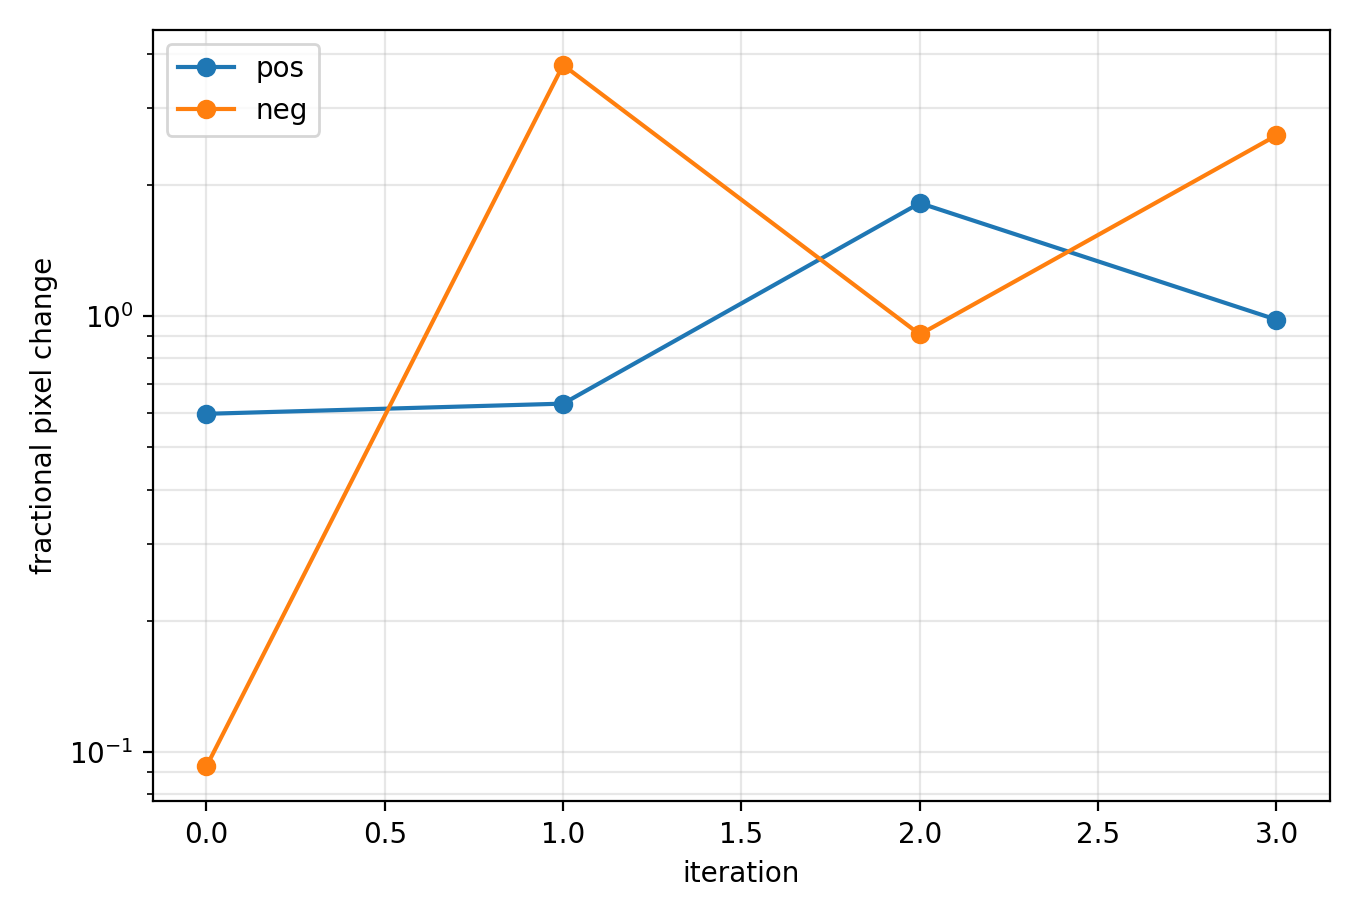
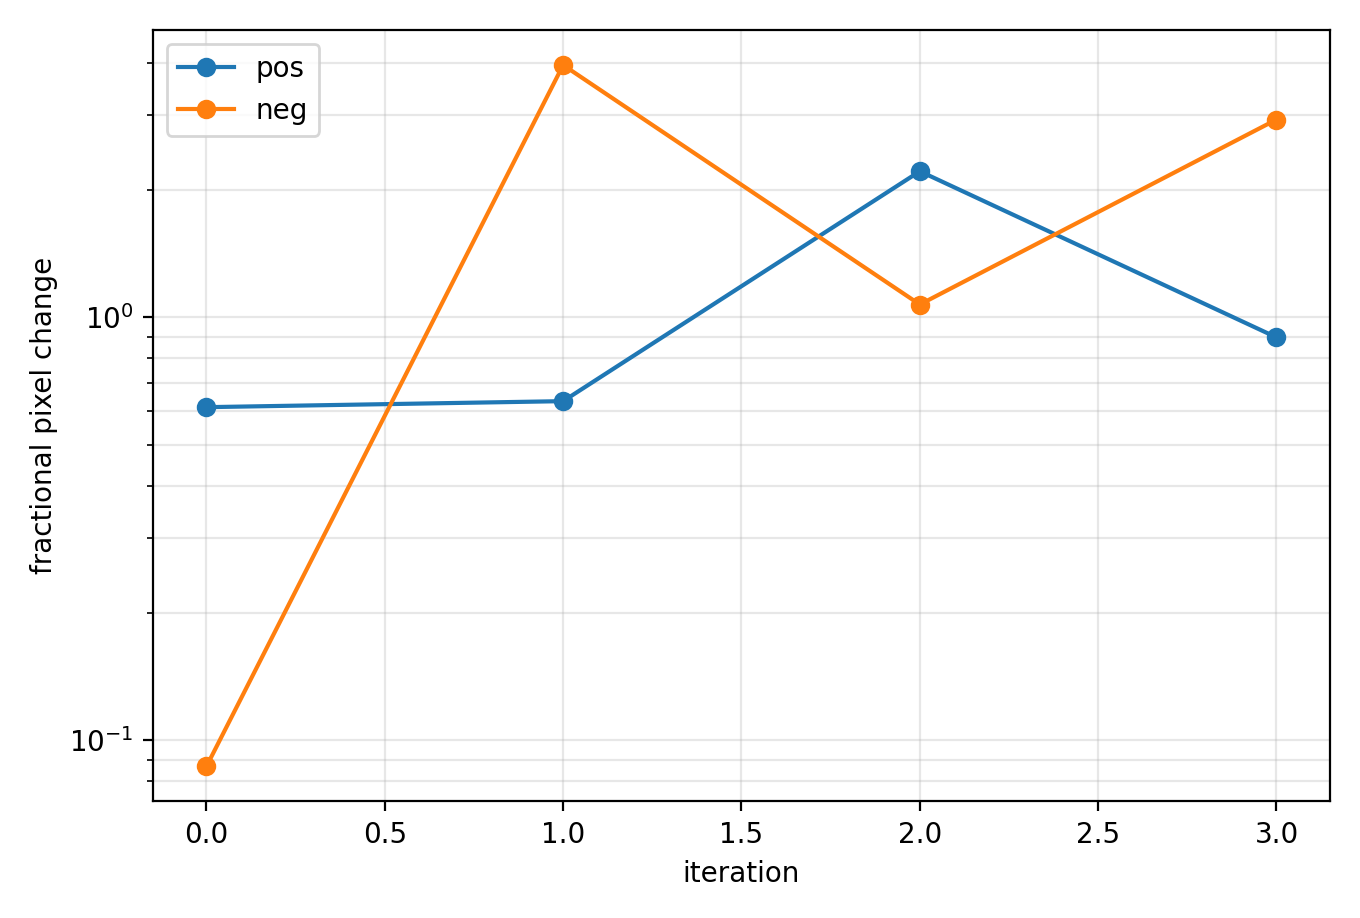
adding proper binning

diff --git a/Totani_paper_check/sanity_checks/sanity_checks.py b/Totani_paper_check/sanity_checks/sanity_checks.py
@@ -1,0 +1,176 @@
+#!/usr/bin/env python3
+"""
+Sanity checks for Totani-style Fermi LAT cube products.
+
+This script answers: "Is the dataset sane?"
+"""
+
+import numpy as np
+import matplotlib.pyplot as plt
+from astropy.io import fits
+import os
+
+# -------------------------
+# Paths
+# -------------------------
+REPO_DIR = os.environ["REPO_PATH"]
+DATA_DIR = os.path.join(REPO_DIR, "fermi_data", "totani", "processed")
+
+COUNTS_CCUBE = os.path.join(DATA_DIR, "counts_ccube_1000to1000000.fits")
+EXPCUBE      = os.path.join(DATA_DIR, "expcube_1000to1000000.fits")
+COUNTS_CMAP  = os.path.join(DATA_DIR, "counts_cmap_1000to1000000.fits")
+
+OUTDIR = "sanity_plots"
+os.makedirs(OUTDIR, exist_ok=True)
+
+
+def load_image_hdu(path, prefer_extname=None):
+    """
+    Load an image HDU from a FITS file robustly.
+    If prefer_extname is given and exists, use it; otherwise pick the first image HDU with data.
+    Returns (data, header, hdu_index, hdu_name).
+    """
+    with fits.open(path) as hdul:
+        # optional preferred extname
+        if prefer_extname is not None and prefer_extname in hdul:
+            h = hdul[prefer_extname]
+            if h.data is None:
+                raise RuntimeError(f"{path}: preferred HDU '{prefer_extname}' has no data")
+            return np.asarray(h.data), h.header, hdul.index_of(prefer_extname), prefer_extname
+
+        # otherwise pick first ImageHDU/PrimaryHDU that has 2D/3D data
+        for i, h in enumerate(hdul):
+            if h.data is None:
+                continue
+            if getattr(h, "is_image", False) or isinstance(h, (fits.PrimaryHDU, fits.ImageHDU)):
+                arr = np.asarray(h.data)
+                if arr.ndim in (2, 3):
+                    name = h.name if hasattr(h, "name") else f"HDU{i}"
+                    return arr, h.header, i, name
+
+        raise RuntimeError(f"{path}: no 2D/3D image HDU found")
+
+
+# -------------------------
+# Load counts (should be (E, Y, X))
+# -------------------------
+counts = fits.getdata(COUNTS_CCUBE).astype(float)
+hdr_counts = fits.getheader(COUNTS_CCUBE)
+
+if counts.ndim != 3:
+    raise RuntimeError(f"Counts cube should be 3D (nE,ny,nx), got shape {counts.shape}")
+
+nE, ny, nx = counts.shape
+
+# -------------------------
+# Load exposure robustly
+# -------------------------
+# Print exposure HDU inventory (super useful)
+print("\n=== EXPCUBE HDU LIST ===")
+with fits.open(EXPCUBE) as hdul:
+    hdul.info()
+
+expo, hdr_expo, expo_hdu_idx, expo_hdu_name = load_image_hdu(EXPCUBE)
+expo = expo.astype(float)
+
+print("\n=== COUNTS CCUBE ===")
+print("Shape:", counts.shape)
+print("Total counts:", int(np.nansum(counts)))
+print("Min / Max:", np.nanmin(counts), np.nanmax(counts))
+if np.nansum(counts) == 0:
+    raise RuntimeError("❌ Counts cube is EMPTY")
+
+print("\nCounts per energy bin:")
+for i in range(nE):
+    print(f"  bin {i:02d}: {int(np.nansum(counts[i]))}")
+
+print("\n=== EXPOSURE CUBE ===")
+print(f"Loaded exposure from HDU {expo_hdu_idx} ('{expo_hdu_name}')")
+print("Shape:", expo.shape)
+print("Finite fraction:", np.isfinite(expo).mean())
+print("Min / Max:", np.nanmin(expo), np.nanmax(expo))
+
+# -------------------------
+# Energy bin sanity
+# -------------------------
+with fits.open(COUNTS_CCUBE) as hdul:
+    if "EBOUNDS" not in hdul:
+        raise RuntimeError("Counts cube missing EBOUNDS extension")
+    eb = hdul["EBOUNDS"].data
+    emin = eb["E_MIN"].astype(float)  # MeV
+    emax = eb["E_MAX"].astype(float)  # MeV
+    ectr = np.sqrt(emin * emax) / 1000.0  # GeV
+
+print("\n=== ENERGY BINS ===")
+print("N bins:", len(ectr))
+print("GeV bin centers:", np.round(ectr, 3))
+
+# -------------------------
+# CMAP quick-look (integrated counts)
+# -------------------------
+if os.path.exists(COUNTS_CMAP):
+    cmap = fits.getdata(COUNTS_CMAP).astype(float)
+
+    plt.figure(figsize=(6, 5))
+    plt.imshow(np.log10(np.maximum(cmap, 1)), origin="lower", cmap="inferno")
+    plt.colorbar(label=r"$\log_{10}(\mathrm{counts})$")
+    plt.title("Integrated counts (CMAP)")
+    plt.xlabel("pixel x")
+    plt.ylabel("pixel y")
+    plt.tight_layout()
+    out = os.path.join(OUTDIR, "counts_cmap_log.png")
+    plt.savefig(out, dpi=150)
+    plt.close()
+    print("\n✓ Wrote:", out)
+
+# -------------------------
+# Per-bin sky structure check
+# -------------------------
+idxs = [0, nE // 2, nE - 1]
+
+# Determine how to index exposure
+expo_is_3d = (expo.ndim == 3)
+if expo.ndim == 3 and expo.shape[0] != nE:
+    print(f"\n⚠ Exposure has {expo.shape[0]} energy planes but counts has {nE}.")
+    print("   This script will still plot, but you should resample exposure energies for real analysis.")
+
+for k in idxs:
+    c = counts[k]
+
+    if expo_is_3d:
+        kk = min(k, expo.shape[0] - 1)
+        a = expo[kk]
+    else:
+        a = expo  # 2D exposure map
+
+    fig, axes = plt.subplots(1, 2, figsize=(10, 4))
+
+    axes[0].imshow(np.log10(np.maximum(c, 1)), origin="lower", cmap="inferno")
+    axes[0].set_title(f"Counts (E~{ectr[k]:.2g} GeV)")
+
+    axes[1].imshow(np.log10(np.maximum(a, 1e-30)), origin="lower", cmap="viridis")
+    axes[1].set_title("Exposure" + (" (2D)" if expo.ndim == 2 else f" (bin {min(k, expo.shape[0]-1)})"))
+
+    for ax in axes:
+        ax.set_xticks([])
+        ax.set_yticks([])
+
+    plt.tight_layout()
+    out = os.path.join(OUTDIR, f"bin_{k:02d}_counts_exposure.png")
+    plt.savefig(out, dpi=150)
+    plt.close()
+
+    print("✓ Wrote:", out)
+
+# -------------------------
+# Global consistency ratios
+# -------------------------
+print("\n=== GLOBAL CONSISTENCY ===")
+counts_nonzero_frac = (counts > 0).mean()
+expo_nonzero_frac = (expo > 0).mean()
+
+print("Counts nonzero fraction:", counts_nonzero_frac)
+print("Exposure nonzero fraction:", expo_nonzero_frac)
+
+print("\nAll sanity checks finished.")
+print("Next step: flux maps + |b|<10° mask + Fig.1 panels.")

diff --git a/Totani_paper_check/data_download/make_bin_edges.py b/Totani_paper_check/data_download/make_bin_edges.py
@@ -1,0 +1,60 @@
+import numpy as np
+from astropy.io import fits
+
+n_bins = 13
+E0_center_gev = 1.51
+dlog10E = 0.227637288133
+
+i = np.arange(n_bins)
+Ecen_gev = E0_center_gev * 10**(i * dlog10E)
+
+Elow_gev  = Ecen_gev * 10**(-dlog10E / 2.0)
+Ehigh_gev = Ecen_gev * 10**(+dlog10E / 2.0)
+
+# write in MeV because Fermitools energy inputs are typically MeV
+with open("totani_13bins_gev_edges.txt", "w") as f:
+    for lo, hi in zip(Elow_gev * 1e3, Ehigh_gev * 1e3):
+        f.write(f"{lo:.6f} {hi:.6f}\n")
+
+# Also write an OGIP-style EBOUNDS FITS so Fermitools can use it for binning.
+# This avoids gtbindef (which depends on PFILES being configured).
+emin_mev = (Elow_gev * 1e3).astype(np.float64)
+emax_mev = (Ehigh_gev * 1e3).astype(np.float64)
+
+for j in range(n_bins - 1):
+    if not (emax_mev[j] < emin_mev[j + 1]):
+        emax_mev[j] = np.nextafter(emin_mev[j + 1], -np.inf)
+    if not (emin_mev[j] < emax_mev[j]):
+        emin_mev[j] = np.nextafter(emax_mev[j], -np.inf)
+
+channel = np.arange(1, n_bins + 1, dtype=np.int32)
+
+cols = fits.ColDefs(
+    [
+        fits.Column(name="CHANNEL", format="J", array=channel),
+        fits.Column(name="E_MIN", format="D", unit="MeV", array=emin_mev),
+        fits.Column(name="E_MAX", format="D", unit="MeV", array=emax_mev),
+    ]
+)
+
+eb_hdu = fits.BinTableHDU.from_columns(cols, name="EBOUNDS")
+eb_hdu.header["EXTNAME"] = "EBOUNDS"
+eb_hdu.header["HDUCLASS"] = "OGIP"
+eb_hdu.header["HDUCLAS1"] = "RESPONSE"
+eb_hdu.header["HDUCLAS2"] = "EBOUNDS"
+eb_hdu.header["HDUVERS"] = "1.2.1"
+eb_hdu.header["CHANTYPE"] = "PHA"
+eb_hdu.header["DETCHANS"] = int(n_bins)
+
+energybins_hdu = fits.BinTableHDU.from_columns(cols, name="ENERGYBINS")
+energybins_hdu.header["EXTNAME"] = "ENERGYBINS"
+energybins_hdu.header["DETCHANS"] = int(n_bins)
+
+prim = fits.PrimaryHDU()
+hdul = fits.HDUList([prim, eb_hdu, energybins_hdu])
+hdul.writeto("totani_13bins.fits", overwrite=True)
+
+print("first low edge [GeV] =", Elow_gev[0])
+print("last high edge [GeV] =", Ehigh_gev[-1])
+print("wrote totani_13bins_gev_edges.txt")
+print("wrote totani_13bins.fits")

diff --git a/Totani_paper_check/make_templates/build_bubbles_templates.py b/Totani_paper_check/make_templates/build_bubbles_templates.py
@@ -227,8 +227,8 @@ def main():
     )
 
     here = os.path.dirname(__file__)
-    ap.add_argument("--verts-north", default=os.path.join(here, "bubble_vertices_north.txt"))
-    ap.add_argument("--verts-south", default=os.path.join(here, "bubble_vertices_south.txt"))
+    ap.add_argument("--verts-north", default=os.path.join(repo_dir, "fermi_data", "totani", "templates", "bubble_vertices_north.txt"))
+    ap.add_argument("--verts-south", default=os.path.join(repo_dir, "fermi_data", "totani", "templates", "bubble_vertices_south.txt"))
     ap.add_argument(
         "--restrict-to-vertices",
         default=True,
@@ -243,7 +243,7 @@ def main():
     )
 
     ap.add_argument("--n-iter", type=int, default=4)
-    ap.add_argument("--smooth-sigma-deg", type=float, default=2.0)
+    ap.add_argument("--smooth-sigma-deg", type=float, default=1.0)
     ap.add_argument("--pos-thresh", type=float, default=0.0)
     ap.add_argument("--neg-thresh", type=float, default=0.0)
     ap.add_argument("--morph-open-deg", type=float, default=1.0)
